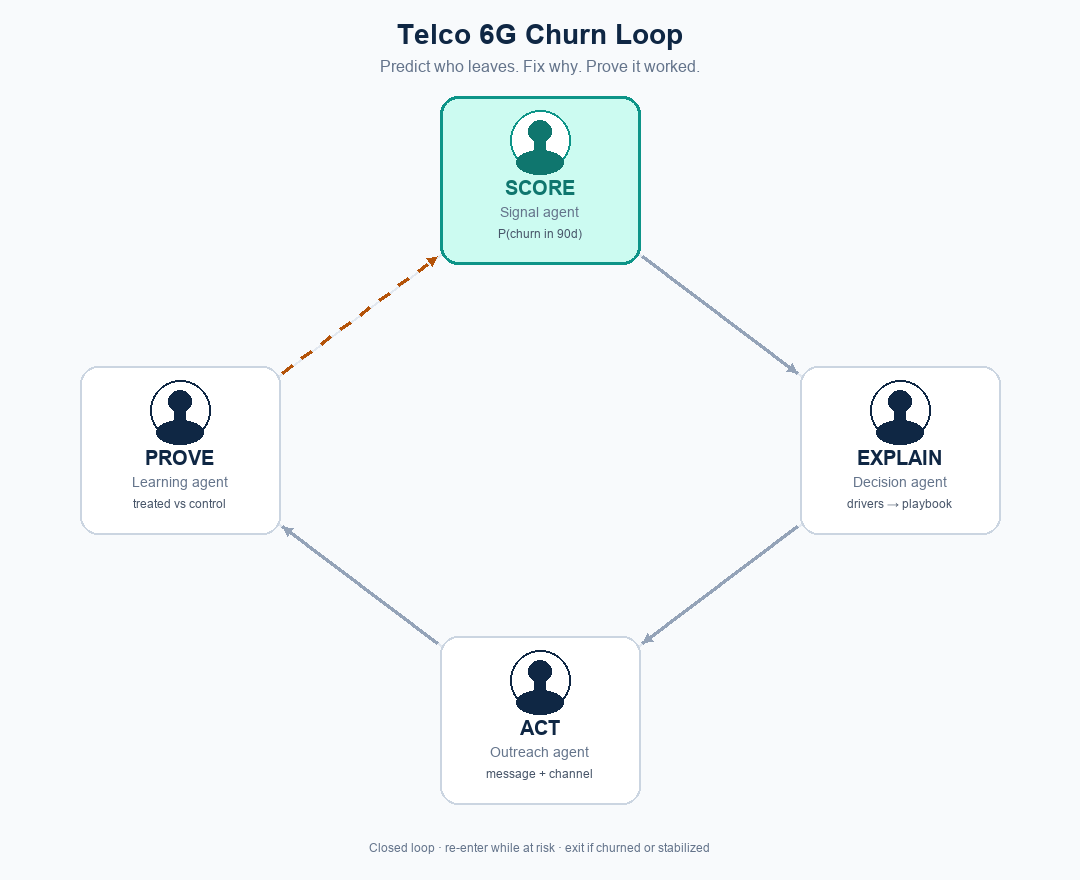
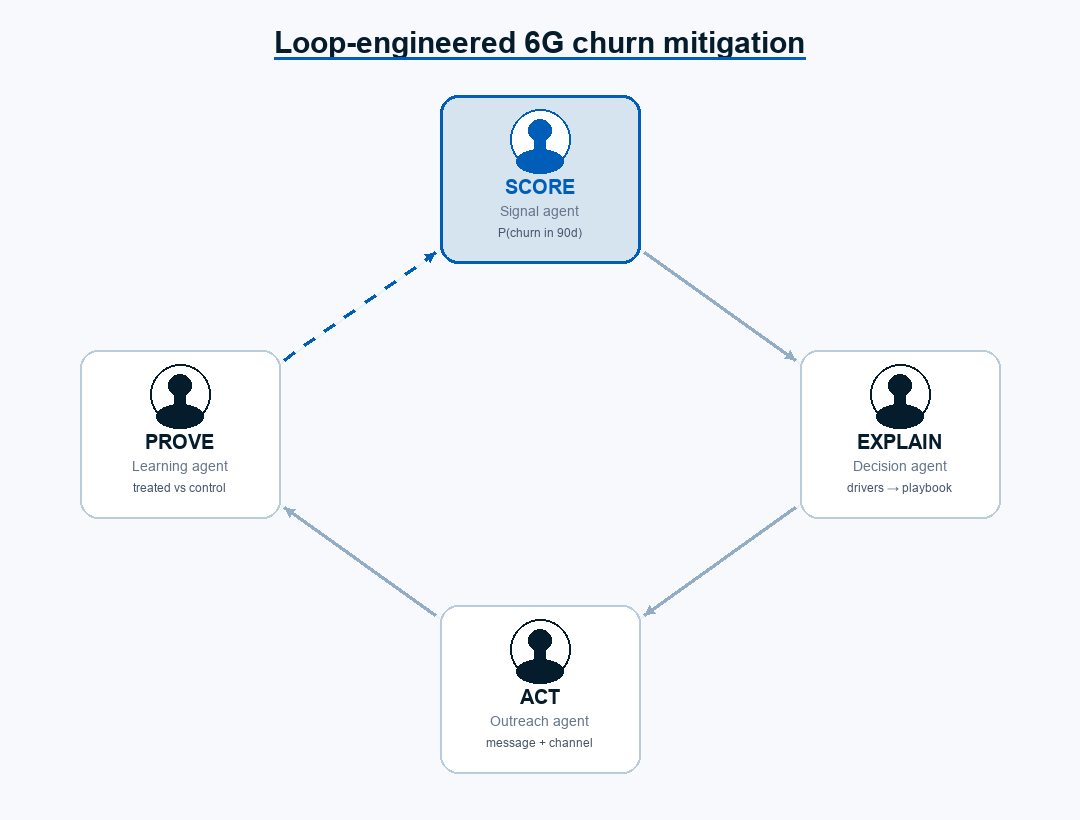
Restyle architecture GIF with McKinsey blues and loop-engineering title.
Drop top/bottom copy; title is Loop-engineered 6G churn mitigation.

diff --git a/README.md b/README.md
@@ -10,9 +10,7 @@ Not a notebook demo. A runnable system — model → agents → API → executiv
 
 ## Architecture (5-second version)
 
-**Predict who leaves. Fix why. Prove it worked.**
-
-![SCORE → EXPLAIN → ACT → PROVE agent loop](docs/architecture-loop.gif)
+![Loop-engineered 6G churn mitigation](docs/architecture-loop.gif)
 
 | Step | Agent | Question | Output |
 |---|---|---|---|
